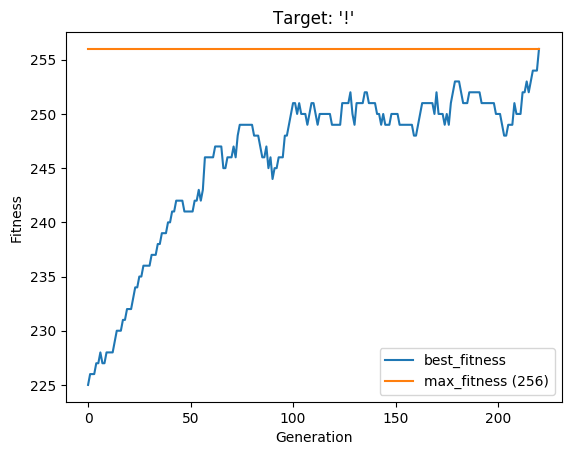
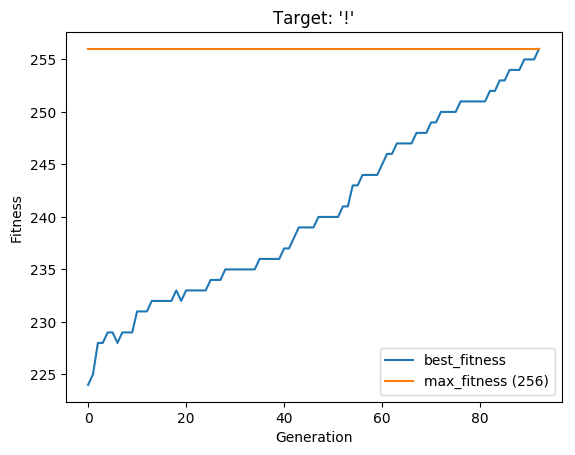
FOUND SOLUTION: +++++++++++++++++++++++++++++++++. for: '!' and it took: 5 minutes

diff --git a/genetic_evolution_meta_programmer.py b/genetic_evolution_meta_programmer.py
@@ -18,8 +18,8 @@ AVAILABLE_OPS = [">", # Increment the pointer.
 				 #"," #Input a byte and store it in the byte at the pointer.
 
 POPULATION = 100
-MUTATION_RATE = 0.15
-SELECTION_RATE = 0.8
+MUTATION_RATE = 0.05
+SELECTION_RATE = 0.9
 TOP_PERFORMERS_COUNT = int(POPULATION * SELECTION_RATE)
 PROGRAM_LENGTH_LOWER_BOUND = 10
 PROGRAM_LENGTH_UPPER_BOUND = 100
